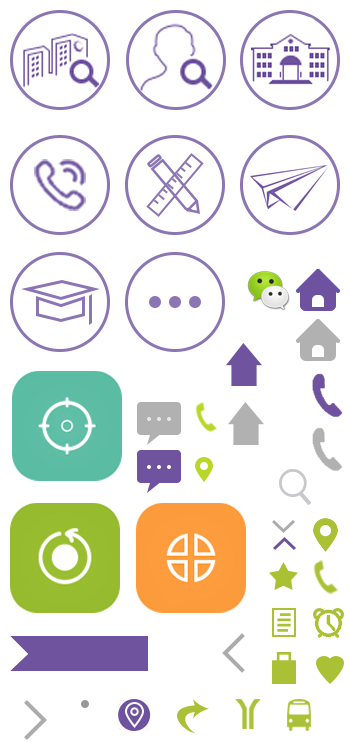
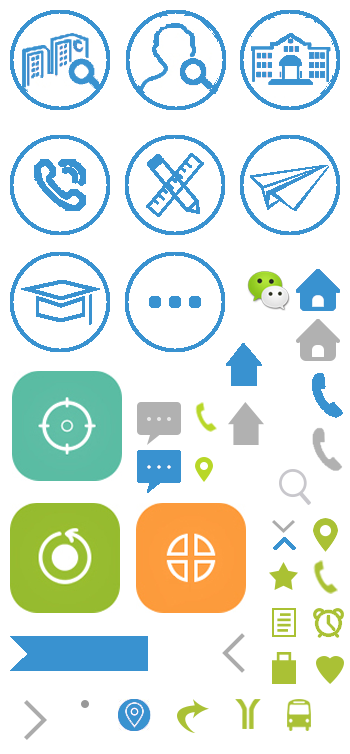
1.修改手机web整体色调 2.更改突变颜色 3.添加名称

diff --git a/Public/Home/wap/style.css b/Public/Home/wap/style.css
@@ -30,7 +30,7 @@ body {
 }
 .header {
   height: 2.15rem;
-  background: #6e529f;
+  background: #3992d0;
   font-size: 0.65rem;
   line-height: 2.15rem;
   position: relative;
@@ -101,7 +101,7 @@ body {
 .home-banner .swiper-pagination-bullet {
   width: 0.4rem;
   height: 0.4rem;
-  background: #6e529f;
+  background: #3992d0;
 }
 .home-icons ul {
   height: auto;
@@ -174,11 +174,11 @@ body {
   left: 0.6rem;
   top: 0;
   font-size: 0.7rem;
-  color: #6e529f;
+  color: #3992d0;
 }
 .home-icons .news span {
   font-size: 0.7rem;
-  color: #6e529f;
+  color: #3992d0;
 }
 .home-icons .news a {
   color: #646464;
@@ -256,7 +256,7 @@ body {
   line-height: 1.5rem;
 }
 .information .head li.on {
-  background: #826aad;
+  background: #3992d0;
   color: #ffffff;
 }
 .information .body {
@@ -305,7 +305,7 @@ body {
   margin-top: 0.125rem;
 }
 .copyright {
-  background: #6e529f;
+  background: #3992d0;
   height: 3rem;
   font-size: 0.5rem;
   color: #ffffff;
@@ -375,7 +375,7 @@ body {
   background-position: -5.625rem -10rem;
 }
 .footer li.on h3 {
-  color: #6e529f;
+  color: #3992d0;
 }
 .footer li.on i.menu_1 {
   background-position: -7.35rem -6.675rem;
@@ -452,7 +452,7 @@ body {
   z-index: 9999;
 }
 .city-list .city-nav a {
-  color: #6f539e;
+  color: #3992d0;
   font-size: 0.55rem;
 }
 .city-list .city-nav li {
@@ -508,7 +508,7 @@ body {
   background: #ffffff;
 }
 .slider .slider-nav a {
-  color: #6f539e;
+  color: #3992d0;
   font-size: 0.55rem;
 }
 .slider .slider-nav li {
@@ -517,7 +517,7 @@ body {
 }
 .slider .slider-nav li a {
   font-size: 0.55rem;
-  color: #6f539e;
+  color: #3992d0;
   text-align: center;
   display: block;
   text-transform: uppercase;
@@ -535,7 +535,7 @@ body {
   width: 100%;
   text-align: center;
   line-height: 2.2rem;
-  color: #6e529f;
+  color:#3992d0;
   cursor: pointer;
 }
 .top-nav h3 {
@@ -588,7 +588,7 @@ body {
   transition: 0.5s all;
 }
 .top-nav li.on h3 {
-  color: #6e529f;
+  color: #3992d0;
 }
 .top-nav li.on .arrow {
   background-position: -6.8rem -13.425rem;
@@ -717,7 +717,7 @@ body {
 .tech-list li h3 {
   float: left;
   font-size: 0.75rem;
-  color: #6e529f;
+  color: #3992d0;
 }
 .tech-list li .stars {
   float: right;
@@ -738,7 +738,7 @@ body {
   opacity: 1;
 }
 .sholl-banner .swiper-pagination-bullet.swiper-pagination-bullet-active {
-  background: #6e529f;
+  background: #3992d0;
 }
 .school-list-txt li {
   padding: 0.6rem;
@@ -749,7 +749,7 @@ body {
 }
 .school-list-txt dt {
   font-size: 0.8rem;
-  color: #6e529f;
+  color: #3992d0;
 }
 .school-list-txt dt .right {
   float: right;
@@ -841,7 +841,7 @@ body {
 }
 .tech-detail .tech-head .name {
   font-size: 0.85rem;
-  color: #6e529f;
+  color: #3992d0;
 }
 .tech-detail .tech-head .txt {
   text-align: center;
@@ -1035,7 +1035,7 @@ body {
   width: 3.8rem;
 }
 .item-one .img-tab li.on {
-  border-bottom: 3px solid #6E529F;
+  border-bottom: 3px solid #3992d0;
 }
 .item-one .img14 {
   height: 0.75rem;
@@ -1106,7 +1106,7 @@ body {
   margin-top: -1.95rem;
   width: 3.9rem;
   height: 3.9rem;
-  background: #6e529f;
+  background: #3992d0;
   border-radius: 50%;
   color: #ffffff;
   text-align: center;
@@ -1174,7 +1174,7 @@ body {
 }
 .item-one .text h3 {
   font-size: 0.8rem;
-  color: #6e529f;
+  color: #3992d0;
   text-align: center;
   margin-bottom: 0.65rem;
 }
@@ -1516,7 +1516,7 @@ body {
   line-height: 1.75rem;
 }
 .date-view .month li.on {
-  background: #7b61a7;
+  background: #3992d0;
   color: #ffffff;
 }
 .date-view .date-view-body {
@@ -1563,7 +1563,7 @@ body {
 }
 .mxtj .mxtj-head {
   font-size: 0.8rem;
-  color: #6e529f;
+  color: #3992d0;
   font-weight: bold;
   margin-bottom: 0.625rem;
 }
@@ -1694,7 +1694,7 @@ body {
 .shcoll-intor dt {
   font-size: 0.8rem;
   margin-bottom: 0.425rem;
-  color: #6e529f;
+  color: #3992d0;
 }
 .shcoll-intor dd {
   font-size: 0.7rem;

diff --git a/Application/Home/View/wap/Index/index.html b/Application/Home/View/wap/Index/index.html
@@ -16,7 +16,7 @@
 
         </div>
         <h1 class="logo">
-            <a href="#" id="top"> <img src="imgs/logo.png" alt="logo"></a>
+            <a href="#" id="top"> <p style="color: #fff;font-weight: bold;font-size: 20px">尚学教育</p></a>
         </h1>
         <div class="right">
             <a href="/weixin.html">
